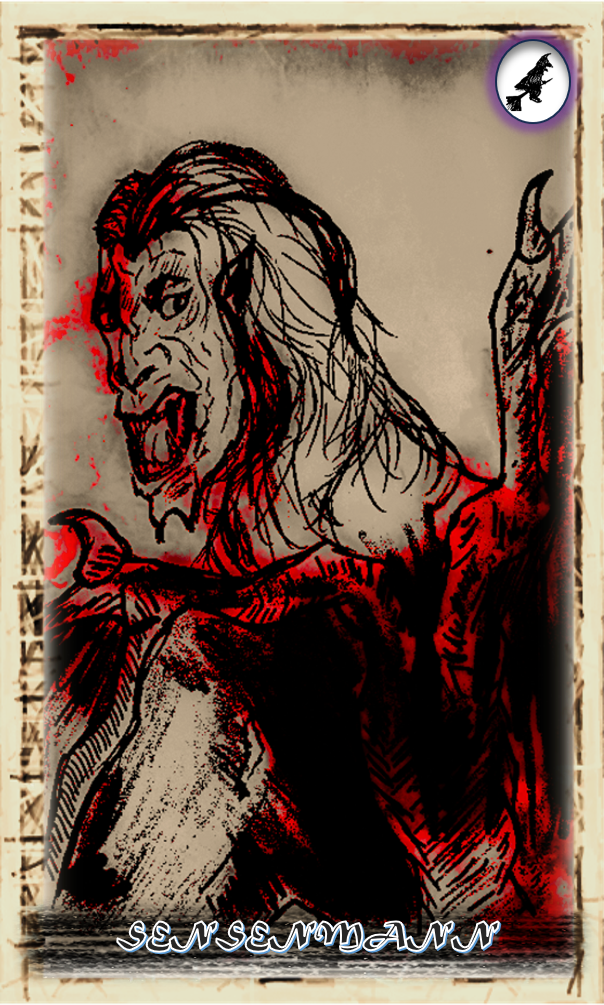
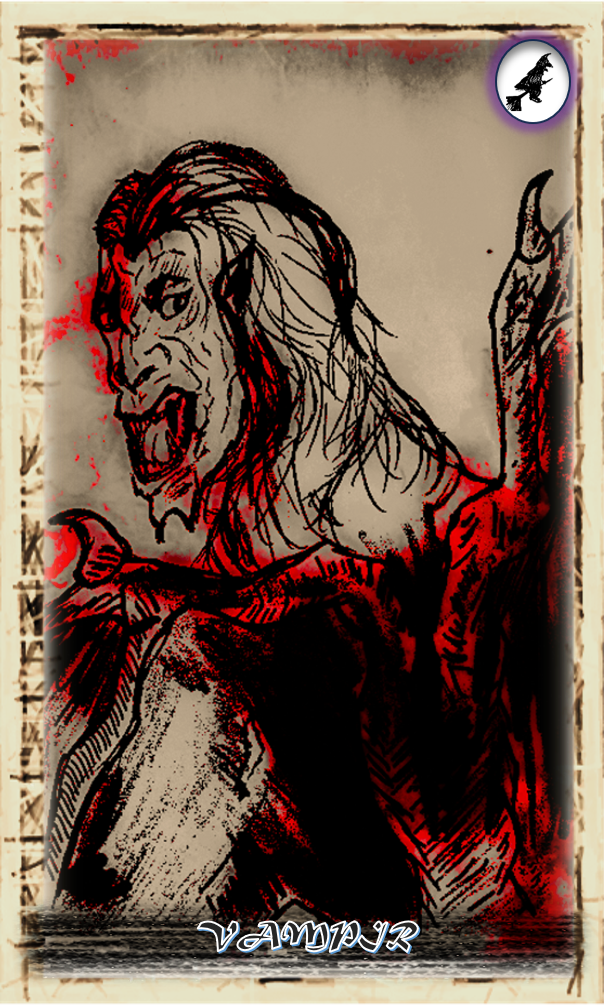
name fix vampir

Changed region(s): [[0.1788, 0.8945, 0.8344, 0.9562]]

diff --git a/src/main/java/com/cab/cardGame/EffekteMangaer.java b/src/main/java/com/cab/cardGame/EffekteMangaer.java
@@ -71,7 +71,7 @@ public class EffekteMangaer {
 			case    0: return new Roboto(card, cardGame, cardGame.boardState, triggerKreaturAufrufen, ignoreState);
 			case    1: return new Hexe(card, cardGame, cardGame.boardState, triggerKreaturAufrufen, cardGame.effektSelectOponentBoardState);//
 			case    2: return new Sensenmann(card, cardGame, cardGame.boardState, triggerKreaturAufrufen, cardGame.effektSelectOponentBoardState);//
-			case    3: return new Vampir(card, cardGame, cardGame.boardState, triggerAfterDoAttack, ignoreState);// name darstellung
+			case    3: return new Vampir(card, cardGame, cardGame.boardState, triggerAfterDoAttack, ignoreState);// 
 			case    4: return new Werwolf(card, cardGame, cardGame.boardState, triggerAfterDoAttack, ignoreState);//
 			case    6: return new Daemon(card, cardGame, cardGame.boardState, triggerKreaturAufrufen, ignoreState);//
 			case    7: return new Zombie(card, cardGame, cardGame.boardState, triggerManualFromGrave, ignoreState);
